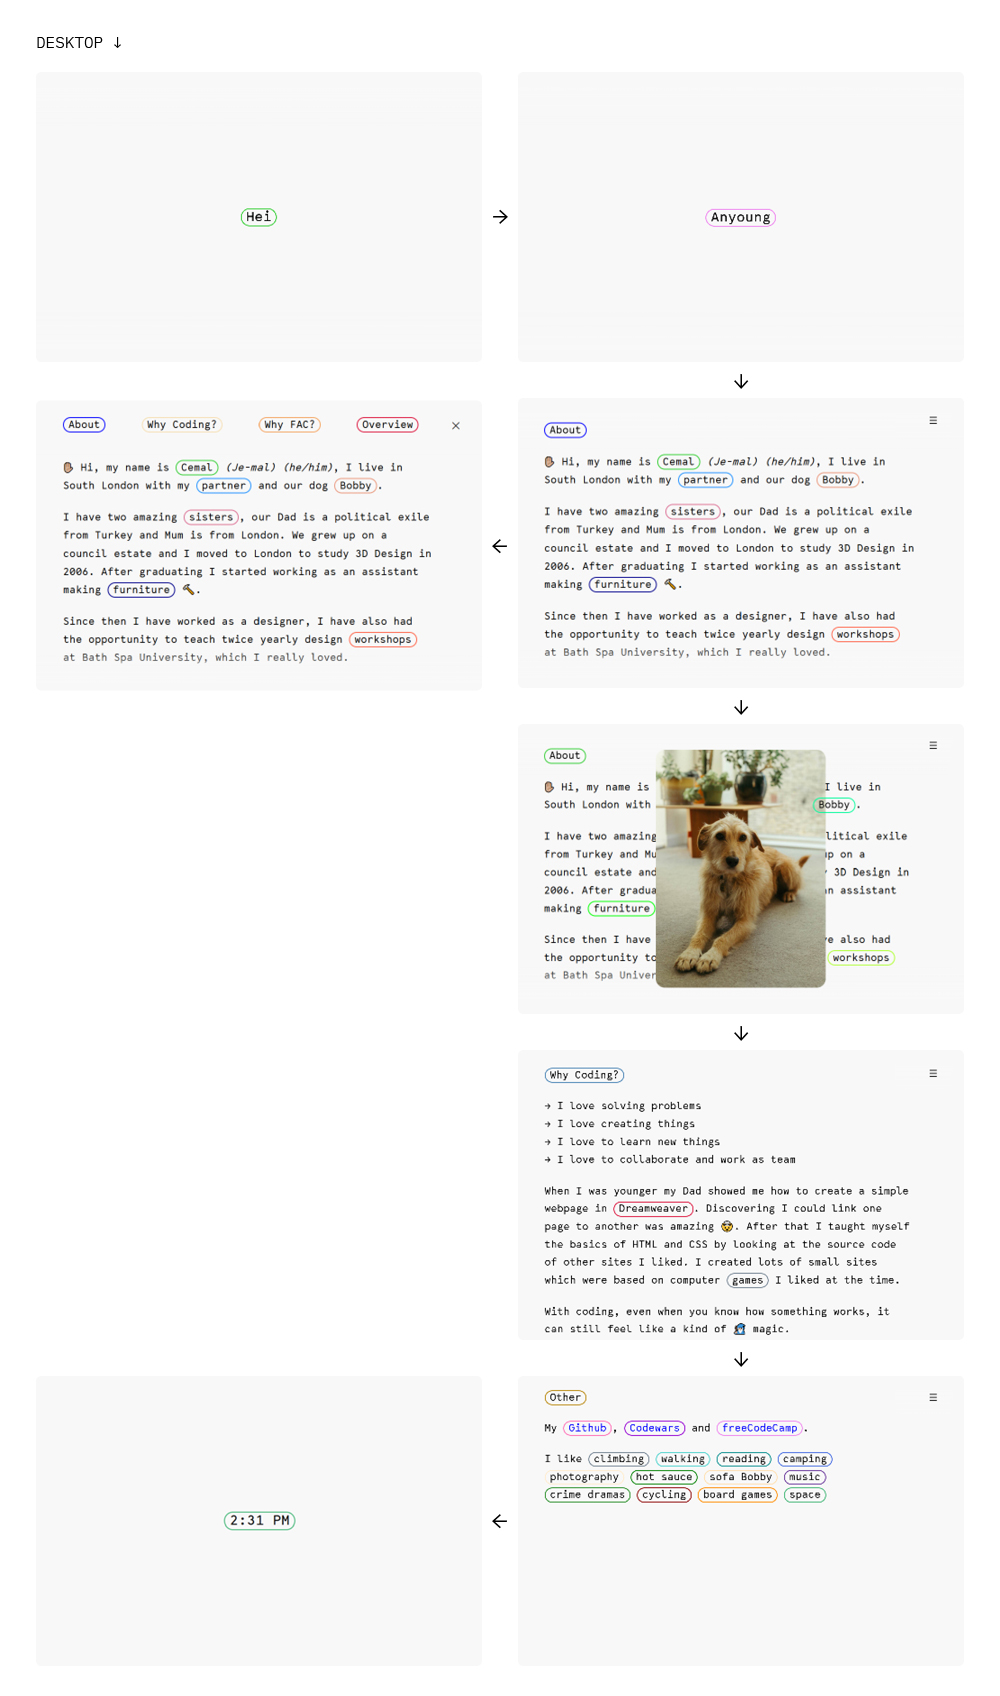
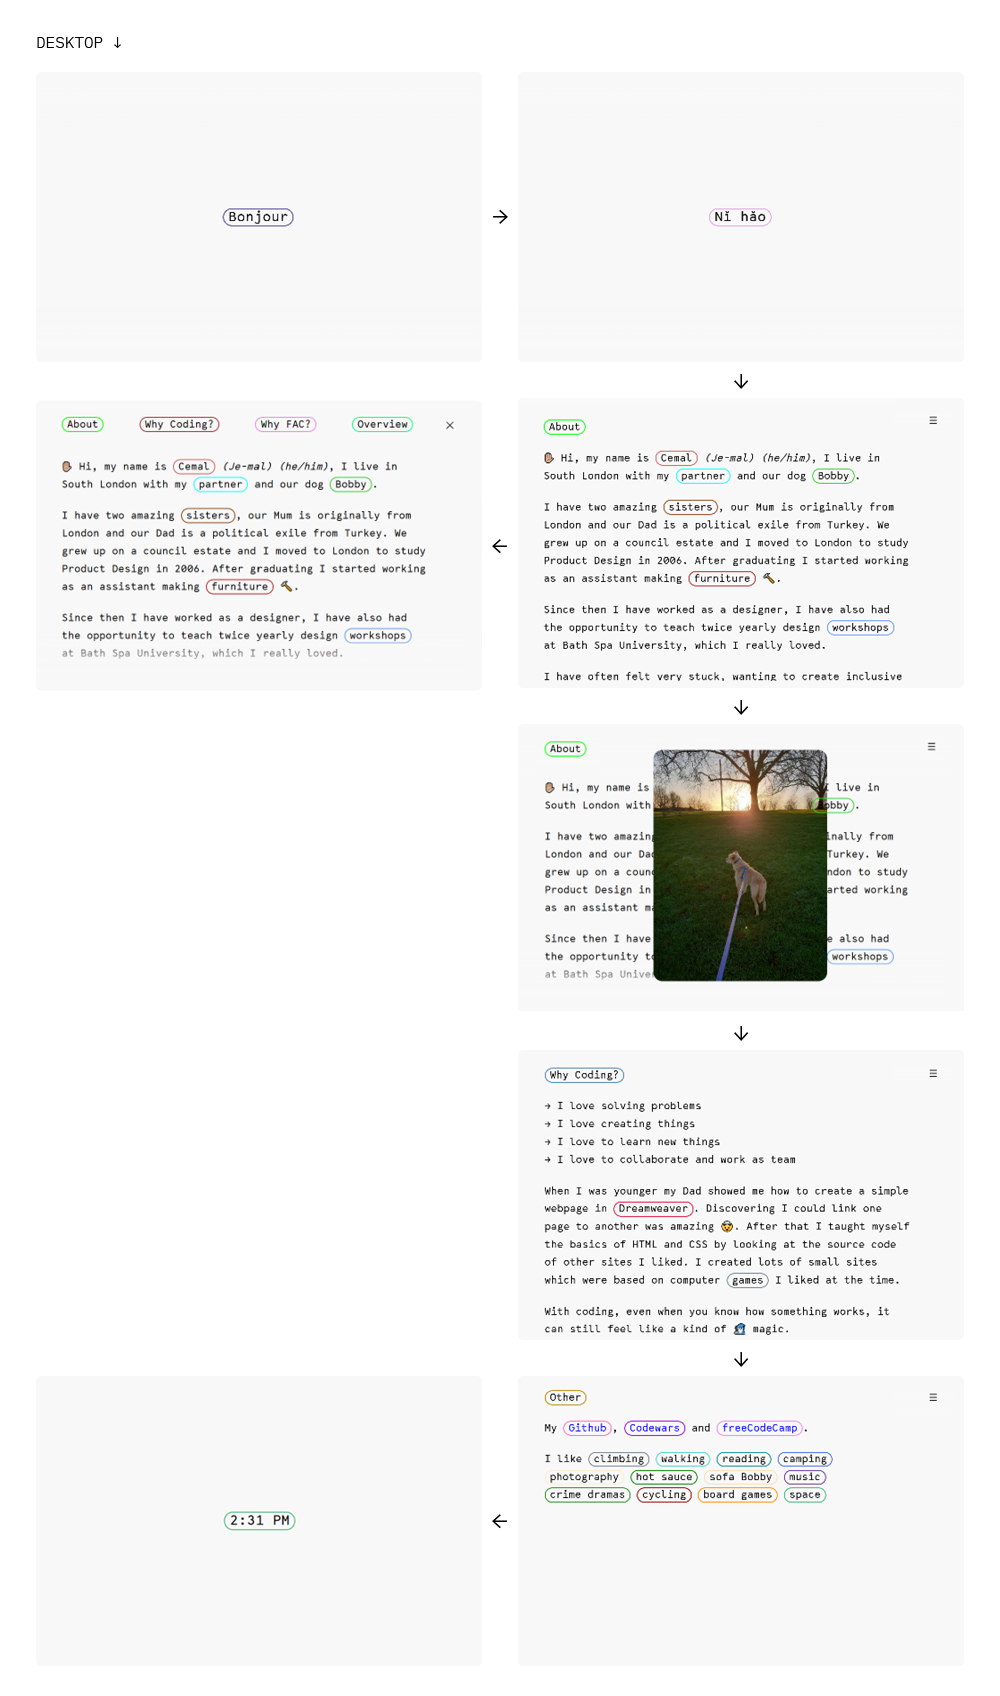
Updated Site Images and Readme
Updated things I learnt and adjusted deployed site images

diff --git a/README.md b/README.md
@@ -4,6 +4,8 @@ This read-me documents my application website for the Founders and Coders (FAC) 
 
 It gave me an opportunity to put into words why I want to learn more about coding and a join the FAC Autumn cohort. 🍁
 
+Please note: the site works best on Firefox, Chrome or Edge. There are ongoing issues with Safari which I need to resolve.
+
 ## 📔 Contents
 
 - [⌚ Project Timeline](#-project-timeline)
@@ -124,6 +126,8 @@ The final deployed site includes:
 - Menu ☰ button and X to close
 - Larger text size and full screen navigation on mobile
 
+
+
 <img src="images/readme/deployed-site-desktop.jpg" alt="Screenshots of deployed website on desktop" width="600px">
 
 <img src="images/readme/deployed-site-mobile.jpg" alt="Screenshots of deployed website on mobile" width="600px">
@@ -203,6 +207,7 @@ Through the creation of this site I learnt the basics of the following:
 - Planning the layout and functions of a site
 - Organising and structuring code
 - Basics of commenting code
+- Storing elements in variables using `querySelector()` `querySelector()` and `getElementById` 
 - Timing events with `setTimeout()`, `setInterval()` and `clearTimeout()`
 - Bubbling events 
 - Events triggered by page location using `getBoundingClientRect()`
@@ -236,4 +241,4 @@ Through the creation of this site I learnt the basics of the following:
 - I am proud of myself and pleased to have been part of the application process
 - I am now even more motivated to learn to code
 - I would love to learn React and Node
-- I would like my next project to be something to help the world
+- I would like my next project to be something to help people
